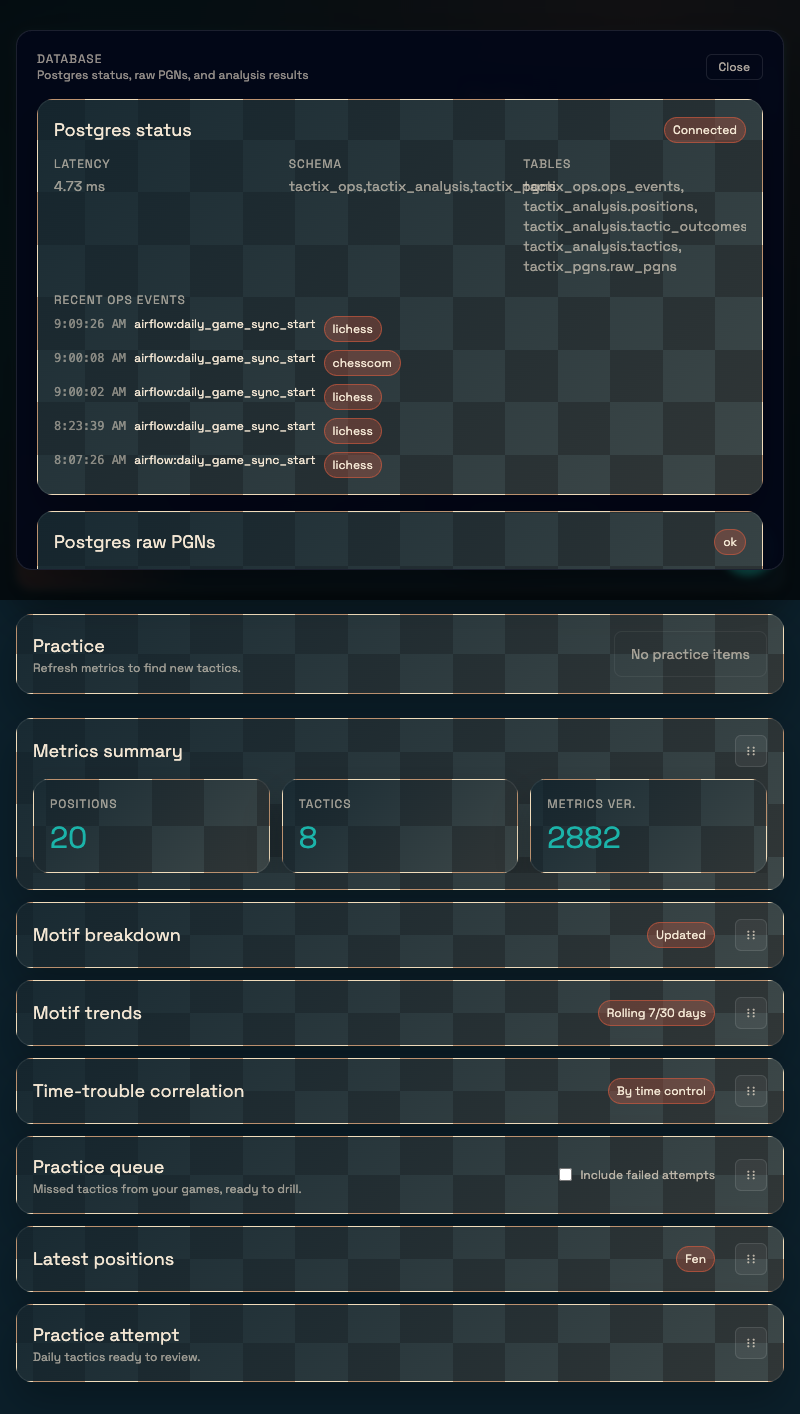
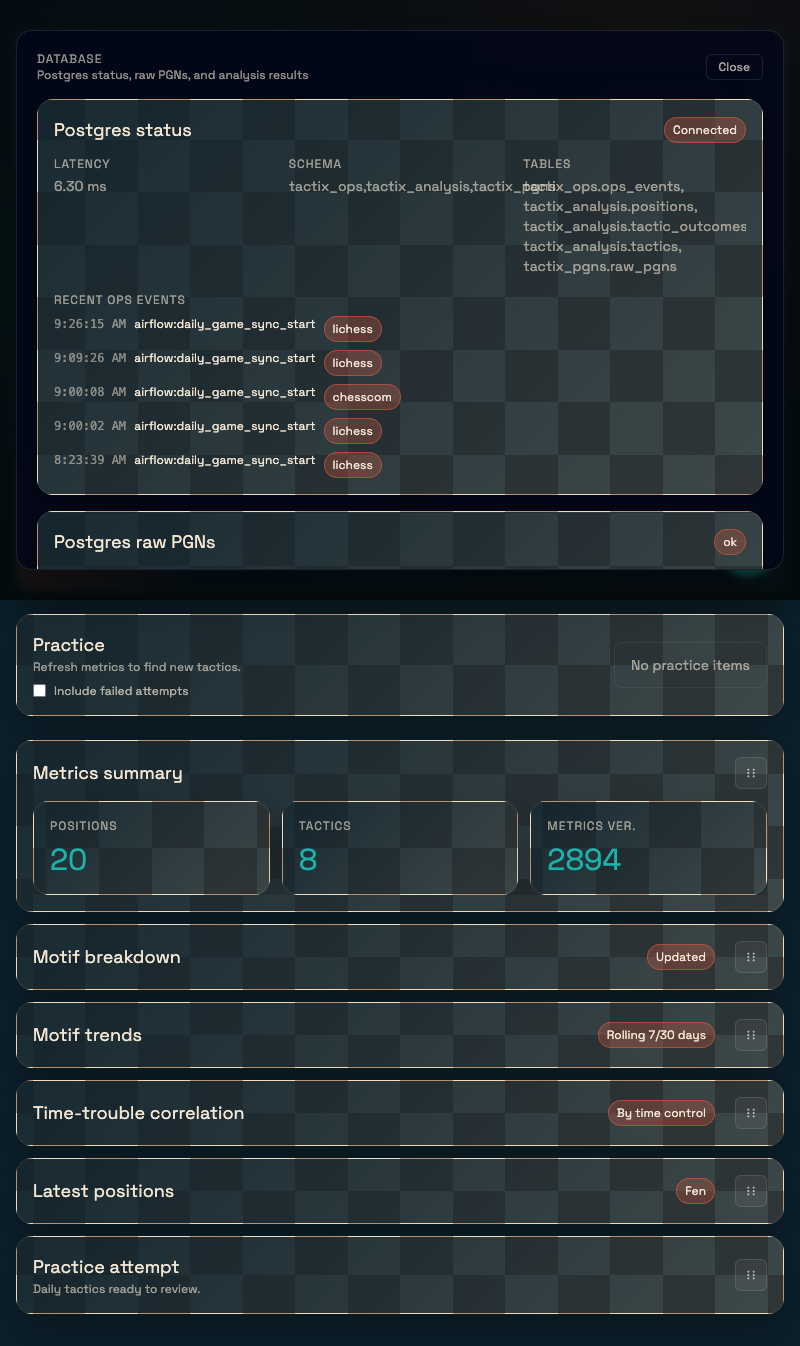
[dev]Move practice button into hero header
- move practice controls into hero panel and remove standalone card

- update practice button automation for header placement

- verify with puppeteer and integration scripts

- tests: make check

Changed region(s): [[0.0, 0.1872, 1.0, 0.9673], [0.0312, 0.0312, 0.9375, 0.2184]]

diff --git a/client/src/_components/Hero.tsx b/client/src/_components/Hero.tsx
@@ -9,6 +9,7 @@ interface HeroProps {
   onBackfill: () => void;
   onRefresh: () => void;
   onMigrate: () => void;
+  onPractice: () => void;
   loading: boolean;
   version: number;
   source: ChessPlatform;
@@ -19,6 +20,13 @@ interface HeroProps {
   backfillEndDate: string;
   onBackfillStartChange: (value: string) => void;
   onBackfillEndChange: (value: string) => void;
+  practiceButtonLabel: string;
+  practiceButtonHelper: string;
+  practiceButtonDisabled: boolean;
+  practiceStatusId: string;
+  includeFailedAttempt: boolean;
+  onIncludeFailedAttemptChange: (value: boolean) => void;
+  practiceLoading: boolean;
 }
 
 interface HeroActionsProps {
@@ -150,6 +158,7 @@ export default function Hero({
   onBackfill,
   onRefresh,
   onMigrate,
+  onPractice,
   loading,
   version,
   source,
@@ -160,6 +169,13 @@ export default function Hero({
   backfillEndDate,
   onBackfillStartChange,
   onBackfillEndChange,
+  practiceButtonLabel,
+  practiceButtonHelper,
+  practiceButtonDisabled,
+  practiceStatusId,
+  includeFailedAttempt,
+  onIncludeFailedAttemptChange,
+  practiceLoading,
 }: HeroProps) {
   const lichessLabel = profile ? LICHESS_PROFILE_LABELS[profile] : 'Rapid';
   const chesscomLabel = chesscomProfile
@@ -195,31 +211,77 @@ export default function Hero({
             value={`Execution stamped via metrics version ${version} · user ${user}`}
           />
         </div>
-        <div className="hero-panel hero-entrance-delay">
-          <div className="hero-panel-heading">
-            <div>
-              <p className="hero-panel-title">Pipeline actions</p>
-              <p className="hero-panel-subtitle">Run actions per source.</p>
+        <div className="hero-panels hero-entrance-delay">
+          <div className="hero-panel">
+            <div className="hero-panel-heading">
+              <div>
+                <p className="hero-panel-title">Pipeline actions</p>
+                <p className="hero-panel-subtitle">Run actions per source.</p>
+              </div>
+              <span className="hero-panel-badge">
+                {actionsDisabled ? 'Scoped to all sites' : 'Ready'}
+              </span>
             </div>
-            <span className="hero-panel-badge">
-              {actionsDisabled ? 'Scoped to all sites' : 'Ready'}
-            </span>
+            <HeroActions
+              onRun={onRun}
+              onBackfill={onBackfill}
+              onRefresh={onRefresh}
+              onMigrate={onMigrate}
+              loading={loading}
+              disabled={actionsDisabled}
+            />
+            <BackfillRange
+              startDate={backfillStartDate}
+              endDate={backfillEndDate}
+              onStartChange={onBackfillStartChange}
+              onEndChange={onBackfillEndChange}
+              disabled={actionsDisabled}
+            />
           </div>
-          <HeroActions
-            onRun={onRun}
-            onBackfill={onBackfill}
-            onRefresh={onRefresh}
-            onMigrate={onMigrate}
-            loading={loading}
-            disabled={actionsDisabled}
-          />
-          <BackfillRange
-            startDate={backfillStartDate}
-            endDate={backfillEndDate}
-            onStartChange={onBackfillStartChange}
-            onEndChange={onBackfillEndChange}
-            disabled={actionsDisabled}
-          />
+          <div className="hero-panel hero-practice-panel">
+            <div className="hero-panel-heading">
+              <div>
+                <p className="hero-panel-title">Practice</p>
+                <p className="hero-panel-subtitle">
+                  Queue the next daily tactics set.
+                </p>
+              </div>
+              <span className="hero-panel-badge">Trainer</span>
+            </div>
+            <div className="hero-practice-status">
+              <p
+                id={practiceStatusId}
+                className="text-xs text-sand/70"
+                role="status"
+                aria-live="polite"
+                data-testid="practice-button-status"
+              >
+                {practiceButtonHelper}
+              </p>
+              <label className="flex items-center gap-2 text-xs text-sand/70">
+                <input
+                  type="checkbox"
+                  className="accent-teal"
+                  checked={includeFailedAttempt}
+                  onChange={(event) =>
+                    onIncludeFailedAttemptChange(event.target.checked)
+                  }
+                  disabled={practiceLoading}
+                  data-testid="practice-include-failed"
+                />
+                Include failed attempts
+              </label>
+            </div>
+            <BaseButton
+              className="button hero-button-practice px-4 py-3 rounded-lg"
+              onClick={onPractice}
+              disabled={practiceButtonDisabled}
+              aria-describedby={practiceStatusId}
+              data-testid="practice-button"
+            >
+              {practiceButtonLabel}
+            </BaseButton>
+          </div>
         </div>
       </div>
     </div>

diff --git a/client/src/flows/DashboardFlow.tsx b/client/src/flows/DashboardFlow.tsx
@@ -1825,6 +1825,7 @@ export default function DashboardFlow() {
         onBackfill={handleBackfill}
         onMigrate={handleMigrations}
         onRefresh={handleRefreshMetrics}
+        onPractice={handleOpenPracticeModal}
         loading={loading}
         version={data?.metrics_version ?? 0}
         source={source}
@@ -1835,47 +1836,14 @@ export default function DashboardFlow() {
         backfillEndDate={backfillEndDate}
         onBackfillStartChange={handleBackfillStartChange}
         onBackfillEndChange={handleBackfillEndChange}
+        practiceButtonLabel={practiceButtonState.label}
+        practiceButtonHelper={practiceButtonState.helper}
+        practiceButtonDisabled={practiceButtonState.disabled}
+        practiceStatusId={practiceStatusId}
+        includeFailedAttempt={includeFailedAttempt}
+        onIncludeFailedAttemptChange={handleIncludeFailedAttemptChange}
+        practiceLoading={practiceLoading}
       />
-
-      <div className="card p-4 flex flex-col gap-3 md:flex-row md:items-center md:justify-between">
-        <div className="space-y-2">
-          <div>
-            <h2 className="text-lg font-display text-sand">Practice</h2>
-            <p
-              id={practiceStatusId}
-              className="text-xs text-sand/60"
-              role="status"
-              aria-live="polite"
-              data-testid="practice-button-status"
-            >
-              {practiceButtonState.helper}
-            </p>
-          </div>
-          <label className="flex items-center gap-2 text-xs text-sand/70">
-            <input
-              type="checkbox"
-              className="accent-teal"
-              checked={includeFailedAttempt}
-              onChange={(event) =>
-                handleIncludeFailedAttemptChange(event.target.checked)
-              }
-              disabled={practiceLoading}
-              data-testid="practice-include-failed"
-            />
-            Include failed attempts
-          </label>
-        </div>
-        <ActionButton
-          type="button"
-          className="rounded-lg border border-white/10 px-4 py-3 text-sm text-sand hover:border-white/30 disabled:cursor-not-allowed disabled:opacity-60"
-          onClick={handleOpenPracticeModal}
-          disabled={practiceButtonState.disabled}
-          aria-describedby={practiceStatusId}
-          data-testid="practice-button"
-        >
-          {practiceButtonState.label}
-        </ActionButton>
-      </div>
 
       {error ? <ErrorCard message={error} /> : null}
 

diff --git a/verification/integration_feature_practice_button.js b/verification/integration_feature_practice_button.js
@@ -9,6 +9,7 @@ const targetUrl = process.env.TACTIX_UI_URL || 'http://localhost:5173/';
 const source = process.env.TACTIX_SOURCE || 'chesscom';
 
 const selectors = {
+  hero: '[data-testid="dashboard-hero"]',
   practiceButton: '[data-testid="practice-button"]',
   practiceQueueRow: '[data-testid^="practice-queue-row-"]',
   practiceModal: '[data-testid="chessboard-modal"]',
@@ -27,6 +28,16 @@ const selectors = {
     await ensurePracticeCardExpanded(page);
 
     await page.waitForSelector(selectors.practiceButton, { timeout: 60000 });
+
+    const buttonInHero = await page.$eval(
+      selectors.hero,
+      (hero, buttonSelector) => Boolean(hero.querySelector(buttonSelector)),
+      selectors.practiceButton,
+    );
+
+    if (!buttonInHero) {
+      throw new Error('Practice button should be rendered in the hero header.');
+    }
 
     const hasQueueRows = await page.$$eval(
       selectors.practiceQueueRow,

diff --git a/verification/puppeteer_feature_practice_button.js b/verification/puppeteer_feature_practice_button.js
@@ -15,6 +15,7 @@ const screenshotName =
 const source = process.env.TACTIX_SOURCE || 'chesscom';
 
 const selectors = {
+  hero: '[data-testid="dashboard-hero"]',
   practiceButton: '[data-testid="practice-button"]',
   practiceStatus: '[data-testid="practice-button-status"]',
   practiceQueueRow: '[data-testid^="practice-queue-row-"]',
@@ -41,6 +42,16 @@ const allowedDisabledLabels = [
     await ensurePracticeCardExpanded(page);
 
     await page.waitForSelector(selectors.practiceButton, { timeout: 60000 });
+
+    const buttonInHero = await page.$eval(
+      selectors.hero,
+      (hero, buttonSelector) => Boolean(hero.querySelector(buttonSelector)),
+      selectors.practiceButton,
+    );
+
+    if (!buttonInHero) {
+      throw new Error('Practice button should be rendered in the hero header.');
+    }
 
     const hasQueueRows = await page.$$eval(
       selectors.practiceQueueRow,

diff --git a/client/src/styles.css b/client/src/styles.css
@@ -150,6 +150,25 @@ body {
   gap: 1rem;
 }
 
+.hero-panels {
+  display: flex;
+  flex-direction: column;
+  gap: 1rem;
+}
+
+.hero-practice-panel {
+  border-color: rgba(27, 179, 169, 0.3);
+  box-shadow:
+    inset 0 0 0 1px rgba(27, 179, 169, 0.14),
+    0 18px 30px rgba(0, 0, 0, 0.28);
+}
+
+.hero-practice-status {
+  display: flex;
+  flex-direction: column;
+  gap: 0.5rem;
+}
+
 .hero-panel-heading {
   display: flex;
   justify-content: space-between;
@@ -231,6 +250,17 @@ body {
   background: rgba(27, 179, 169, 0.14);
   border: 1px solid rgba(27, 179, 169, 0.35);
   color: rgba(186, 245, 240, 0.95);
+}
+
+.hero-button-practice {
+  background: linear-gradient(
+    135deg,
+    rgba(211, 91, 63, 0.85),
+    rgba(27, 179, 169, 0.65)
+  );
+  border: 1px solid rgba(211, 91, 63, 0.5);
+  color: rgba(7, 22, 32, 0.95);
+  font-weight: 600;
 }
 
 .hero-button-ghost {
